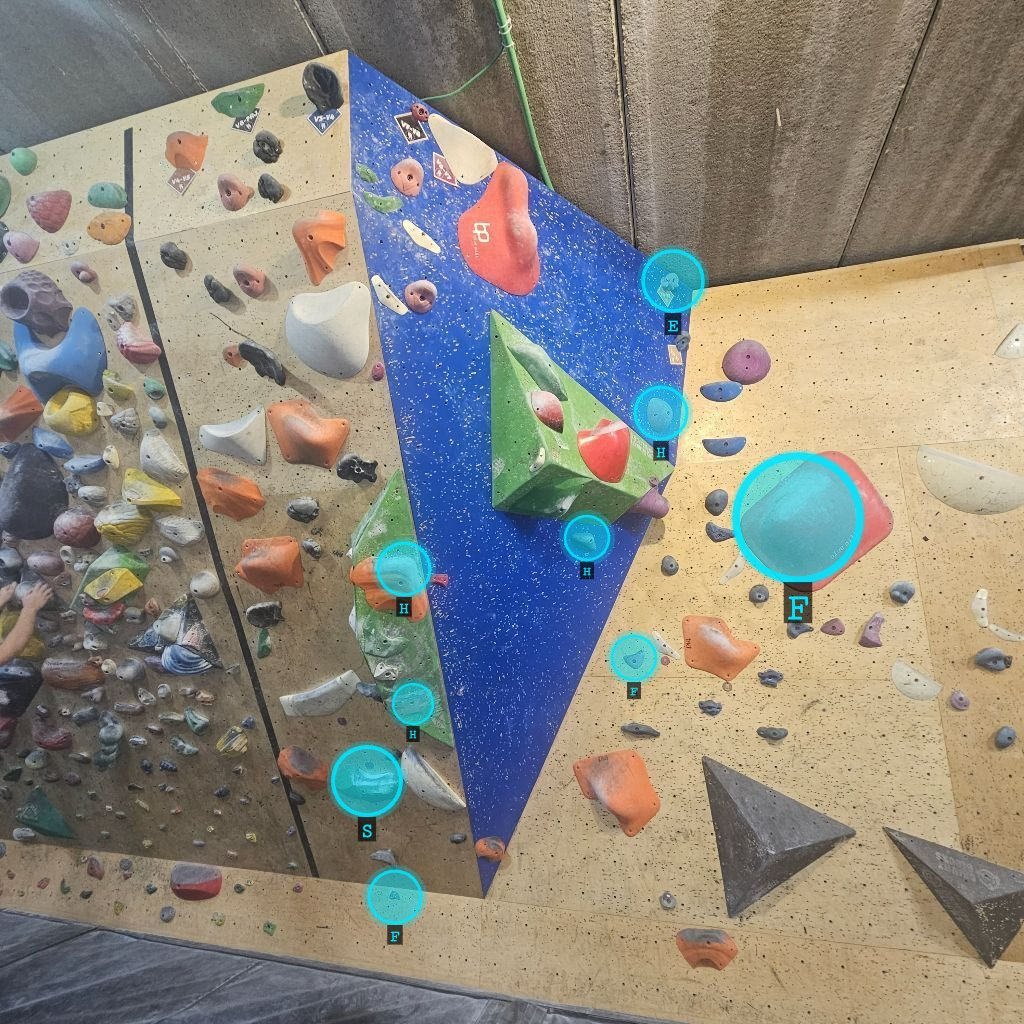
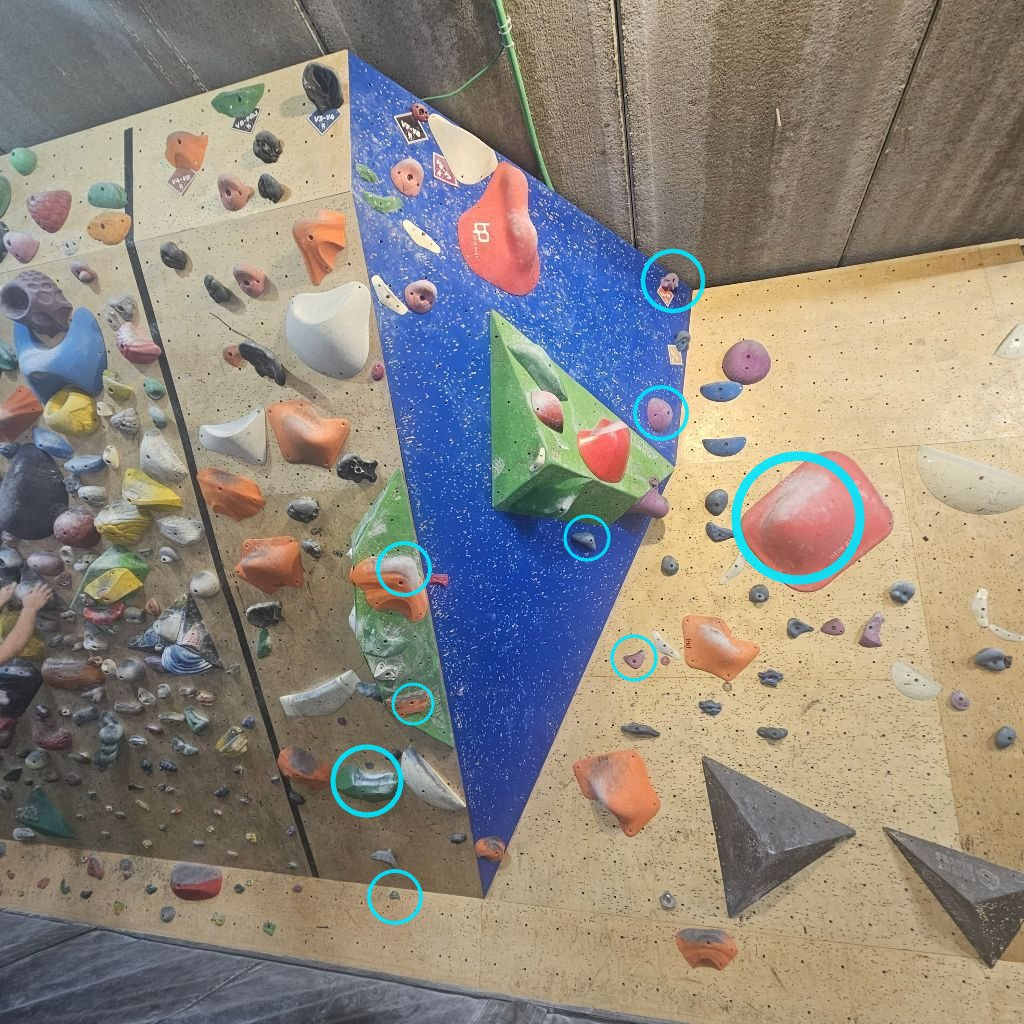
Game: hand-picked crux + fakes, clean circle annotations (v16)

diff --git a/docs/game/index.html b/docs/game/index.html
@@ -235,15 +235,15 @@
 </div>
 
 <a class="back-link" href="../">BetaLens</a>
-<div class="game-ver">v15</div>
+<div class="game-ver">v16</div>
 
 <script>
 const ROUTES = [
-  {"img": "images/route_1.jpg", "grade": "V5", "sit": false, "moves": [{"x1": 0.634, "y1": 0.596, "x2": 0.523, "y2": 0.535}, {"x1": 0.634, "y1": 0.596, "x2": 0.557, "y2": 0.358}, {"x1": 0.663, "y1": 0.341, "x2": 0.653, "y2": 0.233}], "crux": 1},
-  {"img": "images/route_2.jpg", "grade": "V6", "sit": false, "moves": [{"x1": 0.451, "y1": 0.47, "x2": 0.488, "y2": 0.39}, {"x1": 0.488, "y1": 0.39, "x2": 0.244, "y2": 0.403}, {"x1": 0.244, "y1": 0.403, "x2": 0.451, "y2": 0.47}], "crux": 1},
-  {"img": "images/route_3.jpg", "grade": "V5", "sit": true, "moves": [{"x1": 0.403, "y1": 0.688, "x2": 0.358, "y2": 0.763}, {"x1": 0.395, "y1": 0.556, "x2": 0.573, "y2": 0.525}, {"x1": 0.573, "y1": 0.525, "x2": 0.646, "y2": 0.403}], "crux": 2},
-  {"img": "images/route_4.jpg", "grade": "V6", "sit": false, "moves": [{"x1": 0.452, "y1": 0.558, "x2": 0.574, "y2": 0.679}, {"x1": 0.574, "y1": 0.679, "x2": 0.529, "y2": 0.325}, {"x1": 0.529, "y1": 0.325, "x2": 0.452, "y2": 0.558}], "crux": 1},
-  {"img": "images/route_5.jpg", "grade": "V4", "sit": false, "moves": [{"x1": 0.464, "y1": 0.472, "x2": 0.345, "y2": 0.618}, {"x1": 0.63, "y1": 0.458, "x2": 0.6, "y2": 0.302}, {"x1": 0.6, "y1": 0.302, "x2": 0.575, "y2": 0.261}], "crux": 1}
+  {"img": "images/route_1.jpg", "grade": "V5", "sit": false, "moves": [{"x1": 0.395, "y1": 0.628, "x2": 0.634, "y2": 0.596}, {"x1": 0.523, "y1": 0.535, "x2": 0.557, "y2": 0.358}, {"x1": 0.663, "y1": 0.341, "x2": 0.653, "y2": 0.233}], "crux": 1},
+  {"img": "images/route_2.jpg", "grade": "V6", "sit": false, "moves": [{"x1": 0.874, "y1": 0.607, "x2": 0.451, "y2": 0.47}, {"x1": 0.488, "y1": 0.39, "x2": 0.244, "y2": 0.403}, {"x1": 0.244, "y1": 0.403, "x2": 0.486, "y2": 0.252}], "crux": 1},
+  {"img": "images/route_3.jpg", "grade": "V5", "sit": true, "moves": [{"x1": 0.358, "y1": 0.763, "x2": 0.403, "y2": 0.688}, {"x1": 0.395, "y1": 0.556, "x2": 0.573, "y2": 0.525}, {"x1": 0.573, "y1": 0.525, "x2": 0.646, "y2": 0.403}], "crux": 2},
+  {"img": "images/route_4.jpg", "grade": "V6", "sit": false, "moves": [{"x1": 0.749, "y1": 0.646, "x2": 0.574, "y2": 0.679}, {"x1": 0.587, "y1": 0.656, "x2": 0.452, "y2": 0.558}, {"x1": 0.452, "y1": 0.558, "x2": 0.529, "y2": 0.325}], "crux": 2},
+  {"img": "images/route_5.jpg", "grade": "V4", "sit": false, "moves": [{"x1": 0.345, "y1": 0.618, "x2": 0.523, "y2": 0.595}, {"x1": 0.464, "y1": 0.472, "x2": 0.63, "y2": 0.458}, {"x1": 0.63, "y1": 0.458, "x2": 0.6, "y2": 0.302}], "crux": 2}
 ];
 
 const GRADES = ["V4", "V5", "V6"];
